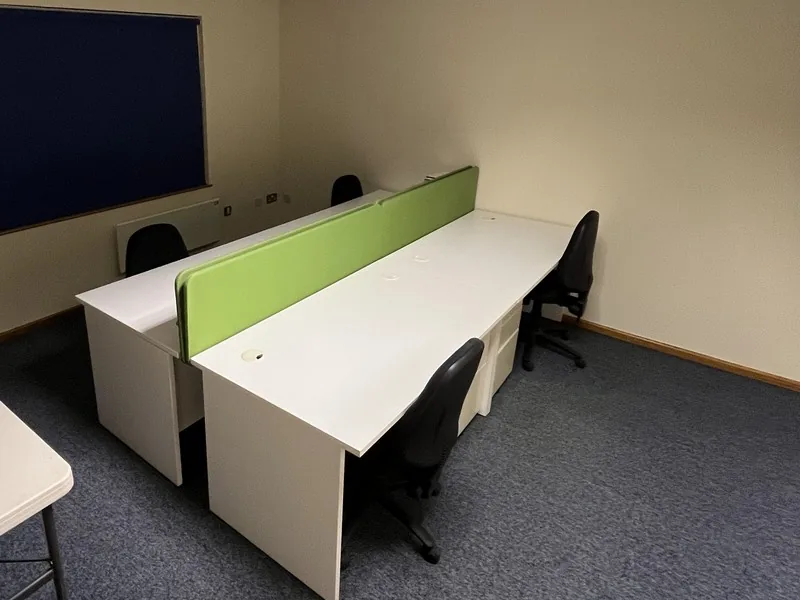
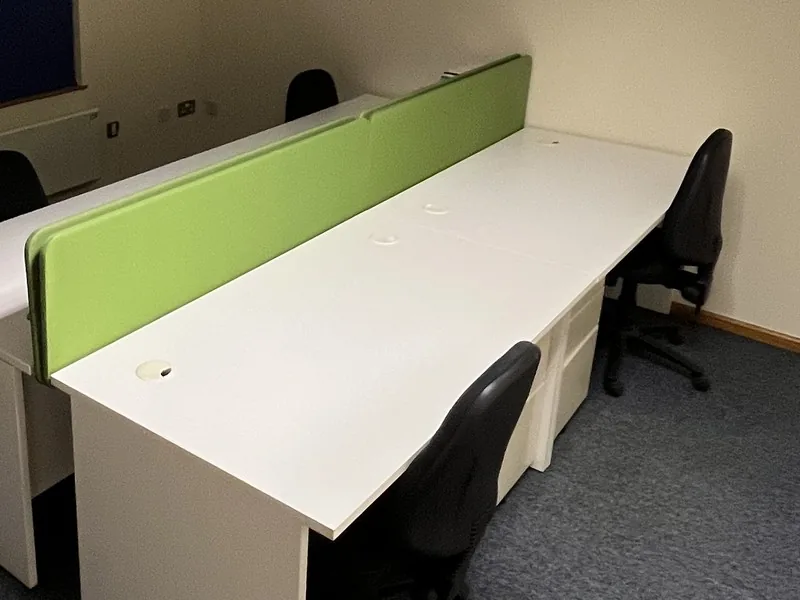
Bristol base: large entrance photo, close-ups of lab, equipment store and office, Visit Us card; case label blurred
Claude-Session: https://claude.ai/code/session_01Jojw3aMgwVRxQPYYdVEczo

diff --git a/public/css/site.css b/public/css/site.css
@@ -430,9 +430,13 @@ body:not(.home):not(.project):not(.section-page) main { padding-top: 88px; min-h
 /* Bristol base photos */
 .base { margin-top: 48px; }
 .base-title { font-size: 1.15rem; color: var(--navy); margin: 0 0 16px; }
-.base-grid { display: grid; grid-template-columns: repeat(4, 1fr); gap: 16px; }
-.base-grid figure { margin: 0; }
+.base-grid { display: grid; grid-template-columns: 1.25fr 1fr 1fr; gap: 16px; }
+.base-grid figure { margin: 0; display: flex; flex-direction: column; }
 .base-grid img { width: 100%; aspect-ratio: 4 / 3; object-fit: cover; border-radius: var(--radius); }
 .base-grid figcaption { font-size: .88rem; margin-top: 6px; color: #6B6D70; }
-@media (max-width: 960px) { .base-grid { grid-template-columns: 1fr 1fr; } }
-@media (max-width: 520px) { .base-grid { grid-template-columns: 1fr; } }
+.base-main { grid-row: 1 / 3; }
+.base-main img { aspect-ratio: auto; flex: 1; min-height: 0; height: 100%; }
+.base-visit { background: #fff; border-radius: var(--radius); padding: 22px; display: flex; flex-direction: column; justify-content: center; box-shadow: 0 1px 3px rgba(30,40,54,.08); }
+.base-visit h4 { margin: 0 0 6px; color: var(--navy); font: 700 1.05rem var(--head); }
+.base-visit p { margin: 0 0 10px; }
+@media (max-width: 760px) { .base-grid { grid-template-columns: 1fr 1fr; } .base-main { grid-column: 1 / 3; grid-row: auto; } .base-visit { padding: 14px; } .base-visit p { font-size: .9rem; } .base-visit .link { font-size: .85rem; } .base-main img { aspect-ratio: 4 / 3; height: auto; } }
